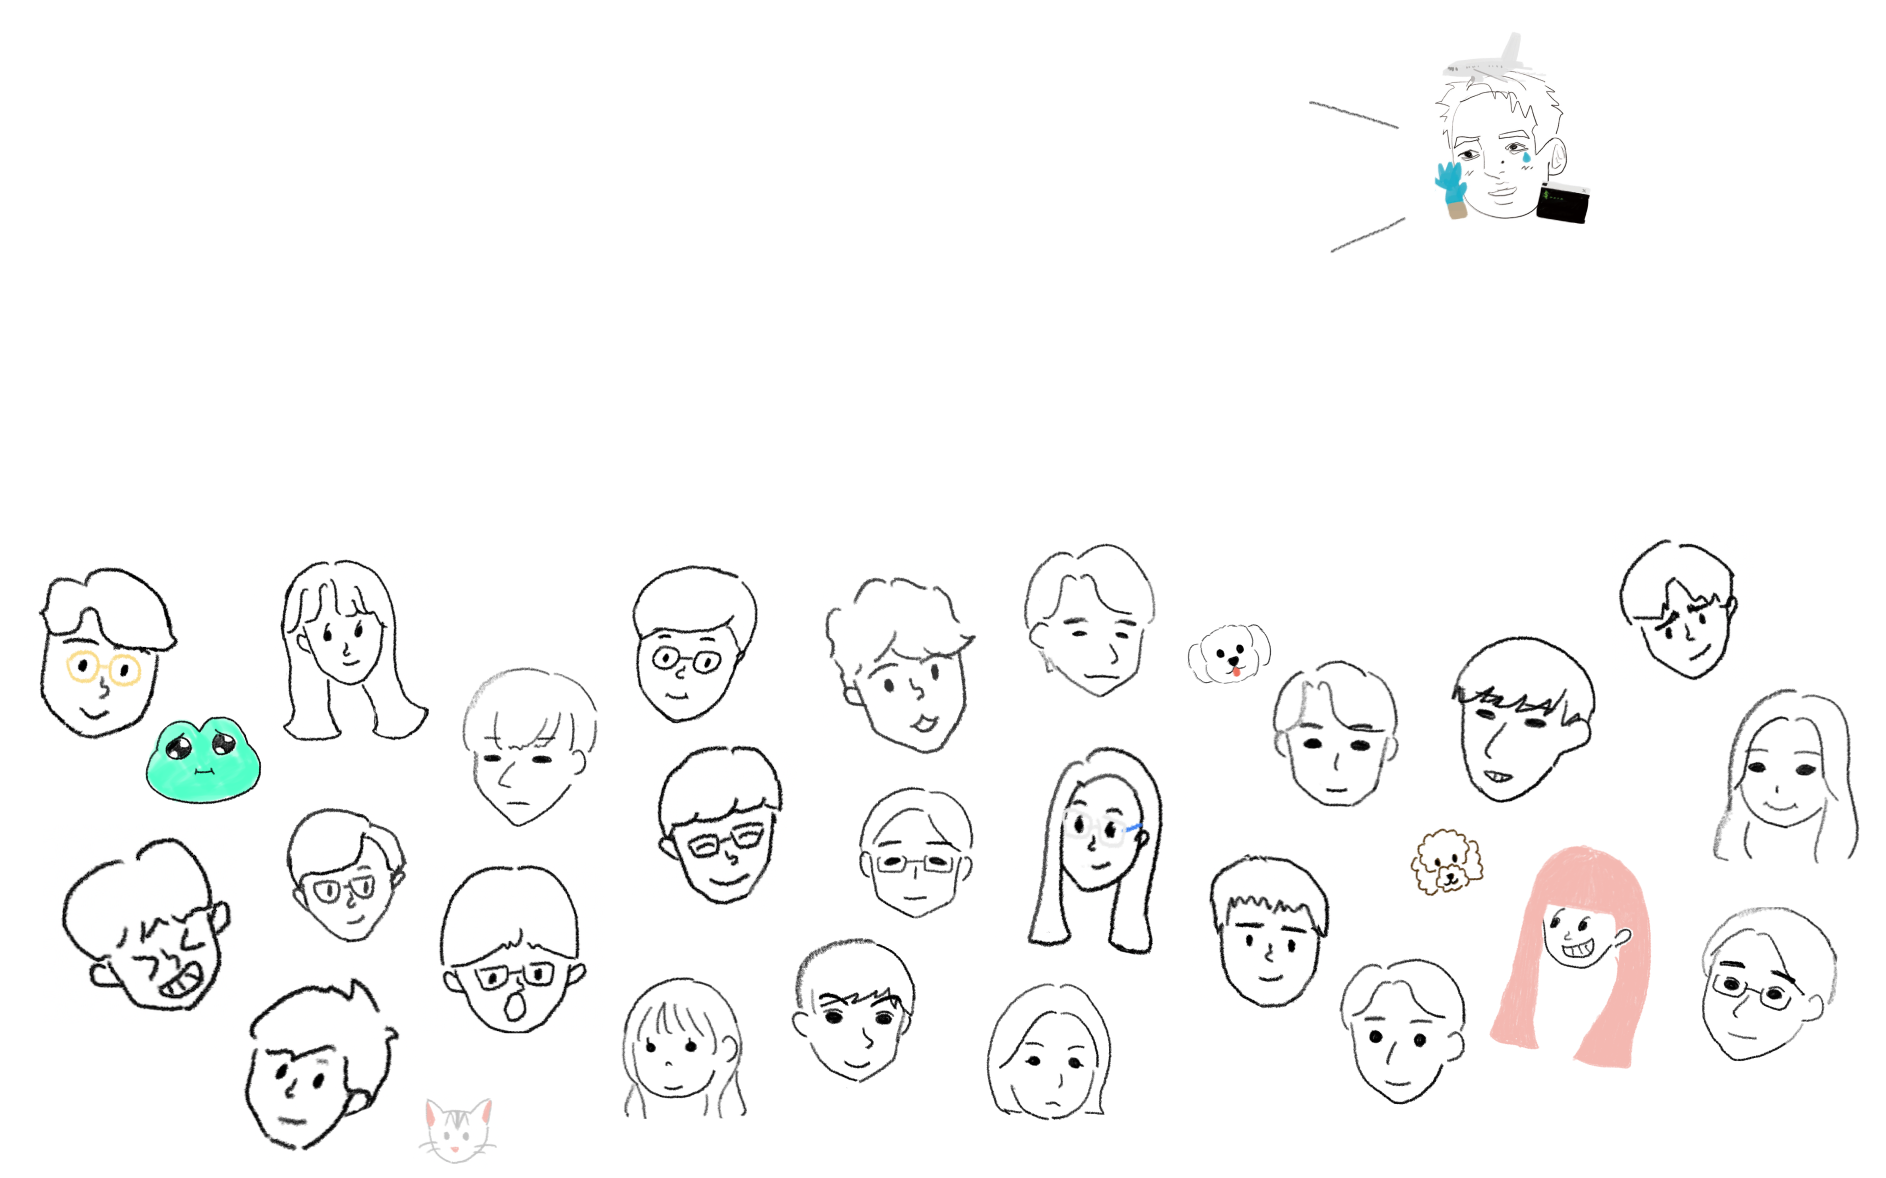
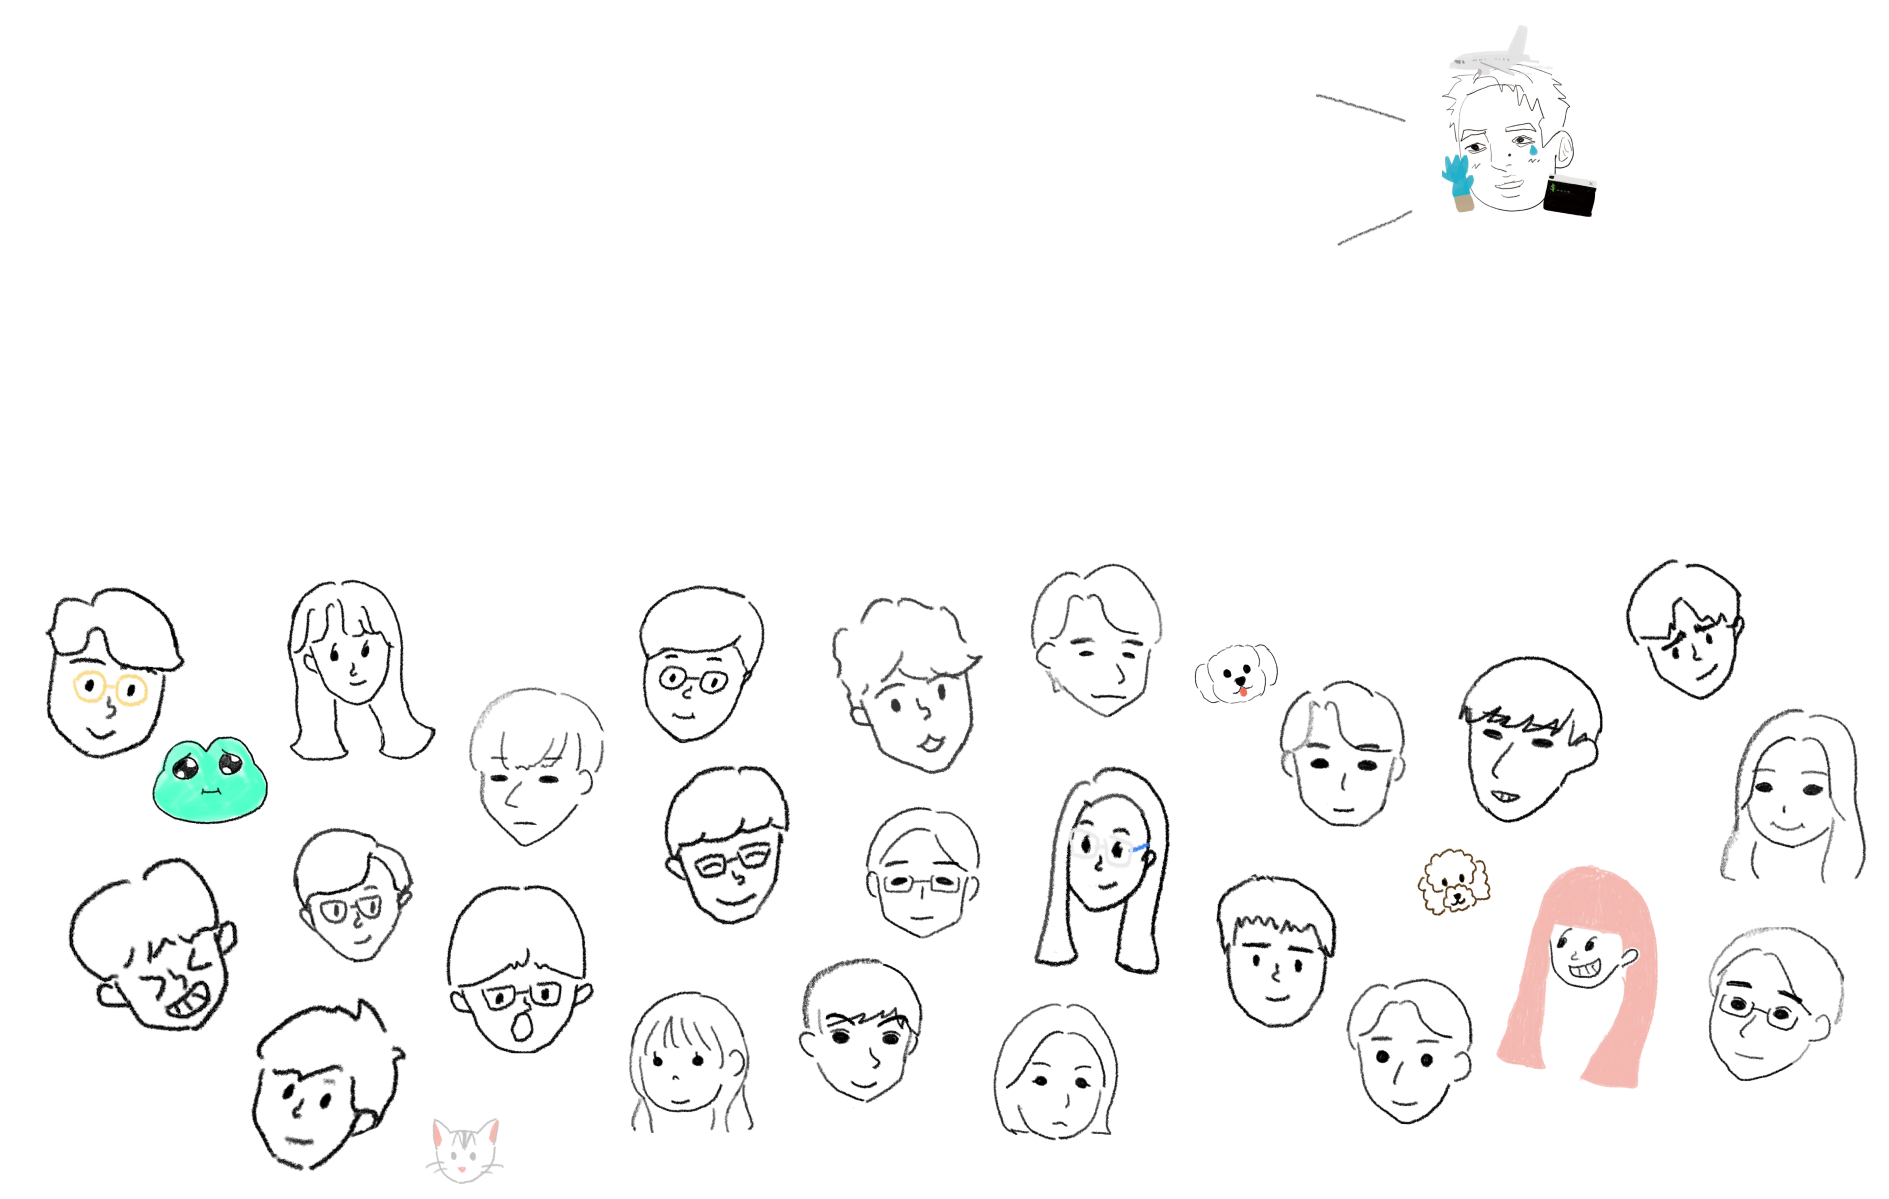
eunho/main.html 수정

diff --git a/roll_paper/templates/roll_paper/main.html b/roll_paper/templates/roll_paper/main.html
@@ -12,7 +12,7 @@
 
 @media(min-width: 992px) {
   .container {
-    background-image: url('../../static/images/main_pc.PNG');
+    background-image: url('../../static/images/main_pc2.PNG');
     background-size: contain;
     background-repeat: no-repeat;
     background-position: top;
